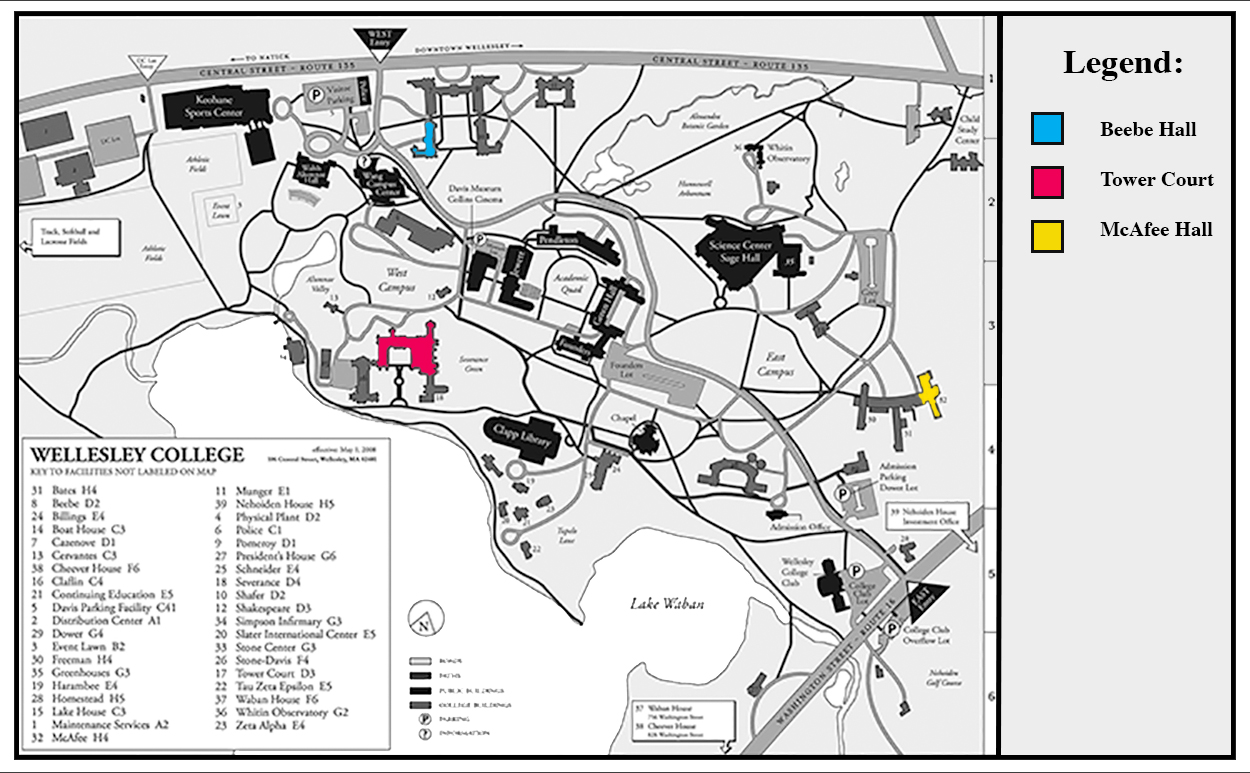
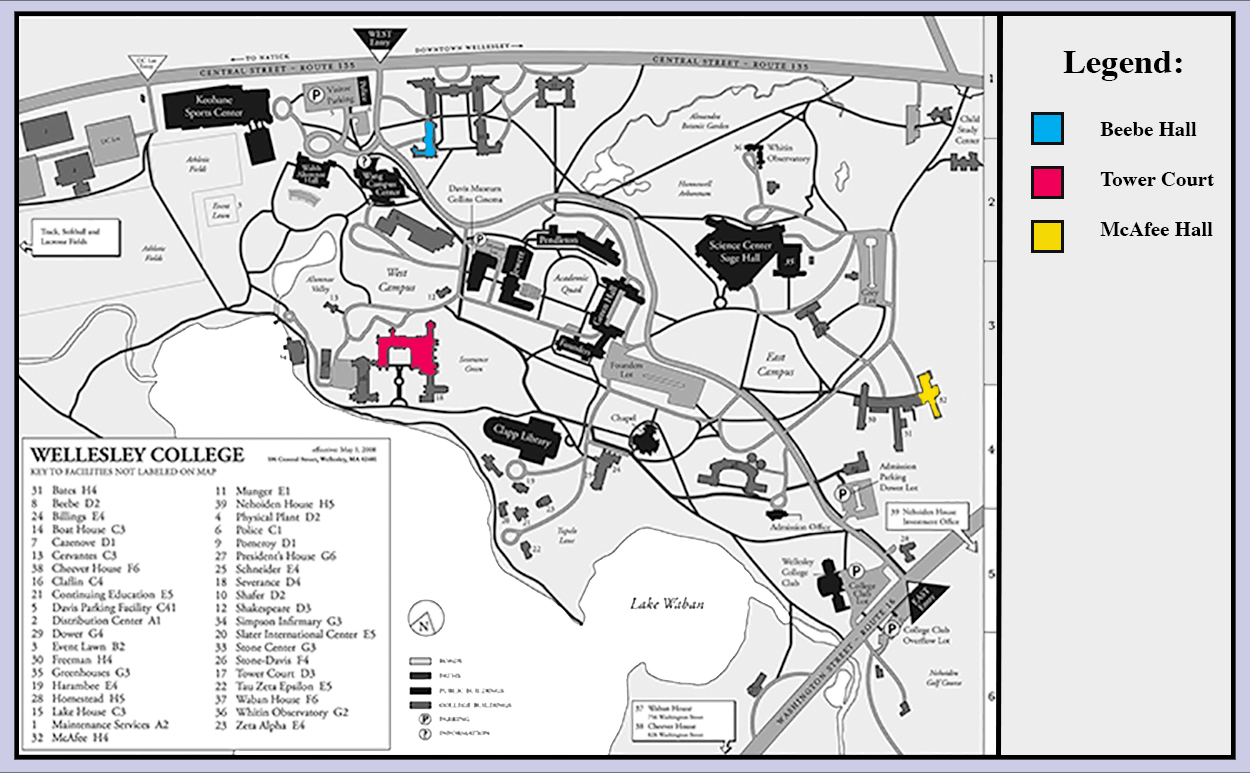
CSS update + main

Changed region(s): [[0.0, 0.0, 1.0, 1.0]]

diff --git a/templates/main.html b/templates/main.html
@@ -4,19 +4,23 @@
         <title> Deconstructing Wellesley </title>
         <meta charset = "UTF-8">
         <link href="../stylesheets/image_map.css" rel='stylesheet' type='imagemap/css'> 
+        <link href="../stylesheets/style.css" rel='stylesheet' type='text/css'>
+        <link href="https://fonts.googleapis.com/css?family=Josefin+Sans:600|Work+Sans:300" rel="stylesheet">
     </head>
 
     <body>
     
-        <div class="header">
-            <h1>DECONSTRUCTING WELLESLEY</h1>  
+        <div id="header">
+            <div id="title">
+                <h1 id="drama">Wellesley Blue<i>prints</i></h1> 
+            </div>
         </div>
-        
+        <br>
+        <br>
         <div class="contentblock"> 
-            <h2>Mission Statement: </h2>
-                <p>We want to create a web resource that will help incoming and returning students find the most comfortable and accessible home in one of the campus dorms. The first year of college can be a time of uncertainty and anxiety, especially if you need particular accommodations and are concerned about finding a good fit roommate and dorm, and we hope that “Navigating your Wellesley Home” to smooth that transition. </p>
+            <h2>Where will your home be on Wellesley's campus? </h2>
             
-                <p>This website will use interactive maps, existing Wellesley floorplans, photos, videos, and Q&amp;A opportunities with a current Wellesley dorm representative to introduce students to their different housing options. We want to create dorm profiles for each living space on campus that break down the pros and cons of life in a particular dorm to these categories: .... We also propose that a position be created on each Wellesley House Council, incentivized with a guaranteed placement in that dorm next year, that would involve answering student questions submitted through a form on the website. The archived questions would be left on the website as resources for incoming students with similar concerns, and this system would ensure the longevity of the project. We also suggest that such a website, if it contained information about all dorms and used a system of icons and traits to distinguish dorms, could eventually be implemented in the Wellesley Housing process for incoming first years. </p>
+                <p>The first year of college can be a time of uncertainty and anxiety, especially if you need particular accommodations and are concerned about finding a good fit roommate and dorm. This website, Wellesley Blue<i>prints</i>, is designed to smooth your transition by helping you identify a niche home on campus that meets your needs.</p>  
         </div>
         
         <div class="contentblock"> 
@@ -29,11 +33,11 @@
             <img src="../images/map_base.jpg" alt="Map of Wellesley College Campus" usemap="#dorms" style= "margin:auto;border: 3px solid black">	
 		      
             <map name="dorms">
-                <area shape="rect" coords="409,123,436,157" href="dorm.html" title="Beebe Hall" alt="Beebe Hall"/>
+                <area shape="rect" coords="409,123,436,157" href="beebe.html" title="Beebe Hall" alt="Beebe Hall"/>
                 
-                <area shape="rect" coords="914,372,944,416" href="dorm.html" title="McAfee Hall" alt="McAfee Hall"/>
+                <area shape="rect" coords="914,372,944,416" href="mcafee.html" title="McAfee Hall" alt="McAfee Hall"/>
                 
-                <area shape="rect" coords="375,328,437,373" href="dorm.html" title="Tower Court" alt="Tower Court"/>
+                <area shape="rect" coords="375,328,437,373" href="tower.html" title="Tower Court" alt="Tower Court"/>
 		    </map>
 		</div>
         

diff --git a/templates/why.html b/templates/why.html
@@ -6,13 +6,28 @@
 
 <body>
 
-       <h2>WHY</h2>
+       <h1>TELL ME WHY: </h1>
 
-       <h1> Why did we do this hack? </h1>
-       <p>bc reasons</p>
-       <br>
-       <h1> Why did we include... </h1>
-       <p>bc reasons</p>
-       <br>
+       <h2>We  wanted to do this hack!</h2>
+    
+        <p>bc reasons</p>
+        <br>
+     
+        <h1>TELL ME WHY:</h1>
+    
+        <h2>We decided to do this project!</h2>
+       
+        <p>We want to create a web resource that will help incoming and returning students find the most comfortable and accessible home in one of the campus dorms.  </p>
+            
+        <p>This website will use interactive maps, existing Wellesley floorplans, photos, videos, and Q&amp;A opportunities with a current Wellesley dorm representative to introduce students to their different housing options. We want to create dorm profiles for each living space on campus that break down the pros and cons of life in a particular dorm to these categories: .... We also propose that a position be created on each Wellesley House Council, incentivized with a guaranteed placement in that dorm next year, that would involve answering student questions submitted through a form on the website. The archived questions would be left on the website as resources for incoming students with similar concerns, and this system would ensure the longevity of the project. We also suggest that such a website, if it contained information about all dorms and used a system of icons and traits to distinguish dorms, could eventually be implemented in the Wellesley Housing process for incoming first years. 
+        </p>
+        <br>
+    
+        <h1>TELL ME WHO:</h1>
+        <h2>We are! </h2>
+    
+        <p>US</p>
+    
+        <h1>WE WANT IT THAT WAY. </h1>
 
 </body>

diff --git a/stylesheets/style.css b/stylesheets/style.css
@@ -1,0 +1,56 @@
+
+#header {
+    font-family: 'Josefin Sans', 'sans-serif';
+    font-size: 250%;
+    text-align: center;
+    opacity: 1.0;
+    background-attachment: fixed;
+    background-position: center;
+    background-repeat: no-repeat;
+    background-size: cover;
+    background-image: url(../images/attempt1.jpg);
+    border: 5px solid black; 
+}
+
+#title {
+    height: 400px;
+    padding-top: 200px;
+}
+
+#drama {
+    padding:5px;
+    background-color: rgb(204,204,230); 
+    border: 3px solid black;
+    width: 65%;
+    margin:auto;
+    -webkit-animation: mymove 1s infinite; /* Chrome, Safari, Opera */
+    animation: mymove 1s infinite;
+    animation-iteration-count: 1
+}
+
+/* Chrome, Safari, Opera */
+@-webkit-keyframes mymove {
+    from {opacity: 0;}
+    to {opacity: 1;}
+}
+
+p { 
+    font-family: 'Work Sans', 'sans-serif'; 
+    padding: 5px;
+    padding-left: 50px;
+    padding-right:50px;
+    
+}
+
+h1, h2 {
+    font-family: 'Josefin Sans', 'sans-serif'; 
+    text-align: center;
+    background-color: rgb(204,204,230); 
+    border: 3px solid black;
+    width: 45%;
+    margin:auto;
+    padding:5px;
+}
+
+
+
